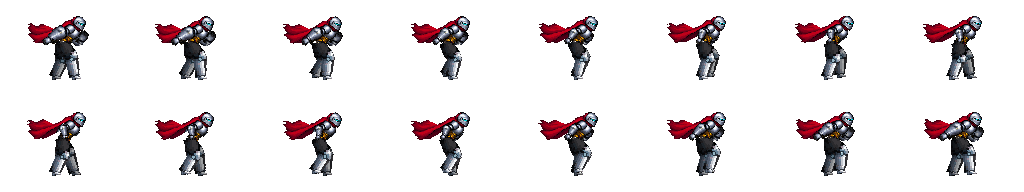
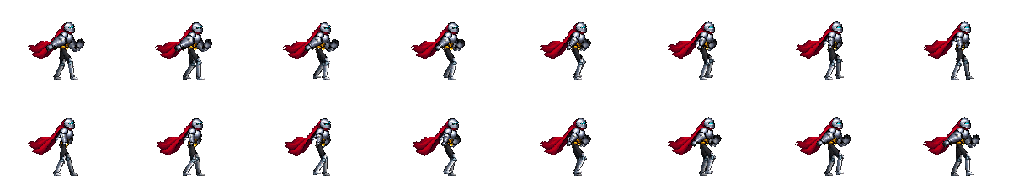
fix: unify knight ceremony and recovery art and straighten running poses

diff --git a/art/characters/grounded-run-v001/sources/process.py b/art/characters/grounded-run-v001/sources/process.py
@@ -27,12 +27,19 @@ boot=armor_part([(70,74),(75,74),(77,76),(80,77),(80,79),(70,79)])
 upper=part([(253,130),(274,135),(279,149),(263,167),(253,182),(236,176),(233,167),(242,143)])
 fore=part([(236,169),(255,178),(244,200),(241,208),(226,212),(217,202),(220,188)])
 # Render transformed original armor cutouts into one offline atlas. No runtime rig or nodes.
-def place(im,p,a0,b0,a1,b1,dark=1):
+def place(im,p,a0,b0,a1,b1,dark=1,width=None):
  ax,ay=a0;bx,by=b0;cx,cy=[v*4 for v in a1];dx,dy=[v*4 for v in b1]
  vx,vy=bx-ax,by-ay;wx,wy=dx-cx,dy-cy
  den=vx*vx+vy*vy;u=(wx*vx+wy*vy)/den;v=(wy*vx-wx*vy)/den;det=u*u+v*v
  # Inverse affine: output coords -> original image coords.
  coeff=(u/det,v/det,ax-(u*cx+v*cy)/det,-v/det,u/det,ay-(-v*cx+u*cy)/det)
+ if width is not None:
+  # Stretch along the bone only: armour must not get wider as a leg extends.
+  sl=math.hypot(vx,vy);tl=math.hypot(wx,wy)
+  sx,sy=vx/sl,vy/sl;tx,ty=wx/tl,wy/tl
+  aa=sx*tx*sl/tl+sy*ty/width;bb=sx*ty*sl/tl-sy*tx/width
+  cc=sy*tx*sl/tl-sx*ty/width;dd=sy*ty*sl/tl+sx*tx/width
+  coeff=(aa,bb,ax-aa*cx-bb*cy,cc,dd,ay-cc*cx-dd*cy)
  pp=p.transform((512,384),Image.Transform.AFFINE,coeff,Image.Resampling.NEAREST)
  if dark!=1:
   aa=pp.getchannel('A');pp=ImageEnhance.Brightness(pp).enhance(dark);pp.putalpha(aa)
@@ -47,8 +54,8 @@ def leg(im,hip,foot,front):
   k=(L1+L2-.1)/dist;foot=(hip[0]+dx*k,hip[1]+dy*k);dx*=k;dy*=k;dist*=k
  along=(L1*L1-L2*L2+dist*dist)/(2*dist);h=math.sqrt(max(0,L1*L1-along*along));knee=(hip[0]+dx*along/dist+dy*h/dist,hip[1]+dy*along/dist-dx*h/dist)
  shade=1 if front else .65
- place(im,thigh,(72*4,57*4),(73*4,65*4),hip,knee,shade)
- place(im,shin,(73*4,66*4),(72.5*4,75*4),knee,foot,shade)
+ place(im,thigh,(72*4,57*4),(73*4,65*4),hip,knee,shade,width=1.0)
+ place(im,shin,(73*4,66*4),(72.5*4,75*4),knee,foot,shade,width=1.0)
  # Heel follows the shin through the airborne recovery; sole remains flat on contact.
  lift=max(0,76-foot[1]);toe=(foot[0]+6,foot[1]+min(3,lift*.16))
  place(im,boot,(72.5*4,76*4),(79*4,77*4),foot,toe,shade)
@@ -58,6 +65,12 @@ def leg(im,hip,foot,front):
 def arm(im,shoulder,elbow,hand,front=True):
  place(im,upper,(263,142),(246,171),shoulder,elbow,1 if front else .65)
  place(im,fore,(246,178),(232,199),elbow,hand,1 if front else .65)
+def stature(tile,anchor):
+ # Keep the established combat sprite's roughly 56px stature, anchored at the soles.
+ scale=.84;result=Image.new('RGBA',tile.size)
+ small=tile.resize((round(tile.width*scale),round(tile.height*scale)),Image.Resampling.NEAREST)
+ result.alpha_composite(small,(round(anchor[0]*(1-scale)),round(anchor[1]*(1-scale))))
+ return result
 for mode in ['run','sprint','walk','idle']:
  for armed in [False,True]:
   count=4 if mode=='idle' else 16
@@ -65,10 +78,10 @@ for mode in ['run','sprint','walk','idle']:
   frames=[];atlas=Image.new('RGBA',(256,192) if mode=='idle' else (1024,192))
   for i in range(count):
    t=i/count;im=Image.new('RGBA',(512,384))
-   bob=1.0*math.sin(t*math.tau*2)
-   hip=(64,(48.5 if mode=='sprint' else 46.5)+bob);lean=3 if mode=='sprint' else 0
-   keys=[(16,77),(3,77),(-15,77),(-20,72),(-16,64),(0,66),(13,69),(19,74)]
-   if mode=='sprint':keys=[(21,76),(4,77),(-19,77),(-25,67),(-16,51),(0,54),(16,61),(24,69)]
+   bob=.6*math.sin(t*math.tau*2)
+   hip=(64,(45.0 if mode=='sprint' else 44.0)+bob);lean=2 if mode=='sprint' else 0
+   keys=[(13,77),(2,77),(-12,77),(-17,74),(-13,70),(-2,70),(9,73),(14,76)]
+   if mode=='sprint':keys=[(17,77),(3,77),(-15,77),(-20,73),(-16,66),(-3,66),(11,71),(18,76)]
    if mode=='walk':keys=[(10,77),(5,77),(0,77),(-6,77),(-10,77),(-6,75),(0,74),(7,75)];hip=(64,44+math.sin(t*math.tau*2)*.4)
    if mode=='idle':hip=(64,44.0+math.sin(t*math.tau)*.35)
    def foot(p):
@@ -79,8 +92,8 @@ for mode in ['run','sprint','walk','idle']:
     wave=round(math.sin(t*math.tau-x*.025)*(324-x)/85)
     cap.alpha_composite(cape.crop((x,0,x+4,384)),(x,wave))
    body_hip=(274,198);body_top=(296,111)
-   target_top=(68+lean,hip[1]-16.5)
-   if mode=='idle':target_top=(63,hip[1]-16.5)
+   target_top=(61+lean,hip[1]-17.5)
+   if mode=='idle':target_top=(61,hip[1]-17.5)
    place(im,cap,body_hip,body_top,hip,target_top)
    leg(im,(hip[0]-2,hip[1]),(57,77) if mode=='idle' else foot(t+.5),False)
    swing=0 if mode=='idle' else math.cos(t*math.tau)
@@ -96,10 +109,66 @@ for mode in ['run','sprint','walk','idle']:
     d=ImageDraw.Draw(im);x,y=[v*4 for v in hand]
     d.line((x,y,x-132,y+42),fill='#142733',width=15);d.line((x,y,x-126,y+38),fill='#b5ced1',width=8);d.line((x,y-3,x-125,y+35),fill='#e5f4eb',width=3);d.line((x-8,y-12,x+4,y+12),fill='#c49c48',width=6)
    arm(im,shoulder,elbow,hand)
-   cell=im.resize((128,96),Image.Resampling.NEAREST)
+   cell=stature(im.resize((128,96),Image.Resampling.NEAREST),(64,80))
    atlas.alpha_composite(cell,((i%columns)*128,(i//columns)*96));frames.append(cell)
   name=mode+('-armed' if armed else '-unarmed');atlas.save(OUT/(name+'.png'))
   if os.environ.get("ART_PREVIEWS")=="1":
    preview=Image.new('RGBA',atlas.size,'#17262c');preview.alpha_composite(atlas);preview.save(OUT/'sources'/(name+'-contact.png'))
    fs=[f.resize((384,288),Image.Resampling.NEAREST) for f in frames]
    fs[0].save(OUT/'sources'/(name+'.gif'),save_all=True,append_images=fs[1:],duration=32 if mode=='sprint' else 40 if mode=='run' else 70,loop=0,disposal=2)
+
+def character_pose(hip,top,feet,hands,elbows,phase=0):
+ """Ceremony and recovery use exactly the locomotion armour, head and scale."""
+ im=Image.new('RGBA',(512,384))
+ place(im,cape,(274,198),(296,111),hip,top)
+ leg(im,(hip[0]-2,hip[1]),feet[0],False)
+ arm(im,(top[0]+4,top[1]+5),elbows[0],hands[0],False)
+ place(im,body,(274,198),(296,111),hip,top)
+ leg(im,hip,feet[1],True)
+ arm(im,(top[0]-2,top[1]+5),elbows[1],hands[1])
+ tile=Image.new('RGBA',(160,128))
+ tile.alpha_composite(im.resize((128,96),Image.Resampling.NEAREST),(16,16))
+ return tile
+
+def blade(tile,hand,tip):
+ """One silver blade, anchored to the gauntlet; transparent margin allows the lift."""
+ d=ImageDraw.Draw(tile);h=(hand[0]+16,hand[1]+16);p=(tip[0]+16,tip[1]+16)
+ dx,dy=p[0]-h[0],p[1]-h[1];length=math.hypot(dx,dy)
+ d.line([h,p],fill='#162936',width=4)
+ d.line([h,p],fill='#b5ced1',width=2)
+ d.line([(h[0]-1,h[1]),(p[0]-1,p[1])],fill='#e5f4eb',width=1)
+ nx,ny=-dy/length*3,dx/length*3
+ d.line([(h[0]+nx,h[1]+ny),(h[0]-nx,h[1]-ny)],fill='#c49c48',width=2)
+
+# Eight existing ceremony timing slots: reach, brace, pull, rise, lift, hold, lower, settle.
+poses=[
+ ((64,44),(61,26.5),(77,50),(77,78)),
+ ((64,49),(65,32),(78,53),(78,79)),
+ ((64,48),(65,31),(77,49),(77,77)),
+ ((64,44),(61,26.5),(74,40),(75,68)),
+ ((64,44),(61,26.5),(71,17),(71,-14)),
+ ((64,44),(61,26.5),(71,17),(71,-14)),
+ ((64,44),(61,26.5),(72,38),(94,16)),
+ ((64,44),(61,26.5),(68,48),(35,59)),
+]
+ceremony=Image.new('RGBA',(640,256))
+for i,(hip,top,hand,tip) in enumerate(poses):
+ offhand=(hand[0]-3,hand[1]+3) if i<4 else (70,48)
+ elbows=((70,hip[1]-3),(70,30 if i in [4,5] else hip[1]-4))
+ tile=character_pose(hip,top,[(57,77),(70,77)],[offhand,hand],elbows)
+ blade(tile,hand,tip)
+ ceremony.alpha_composite(stature(tile,(80,96)),((i%4)*160,(i//4)*128))
+ceremony.save(ROOT/'art/characters/camp-ceremony-v001/draw_sword.png')
+
+# Cavalry now reuses the mounted atlas directly at runtime; no second horse design.
+rest_path=ROOT/'art/characters/exhaustion-v001/rest.png'
+rest=Image.new('RGBA',(640,256))
+for row in range(2):
+ for i in range(4):
+  breath=math.sin(i/6*math.tau)*.7
+  hip=(64,45.5);top=(66+breath,29+breath)
+  hand=(74,57) if row==0 else (76,45)
+  tile=character_pose(hip,top,[(56,77),(72,77)],[(72,56),hand],[(73,46),(73,44)])
+  if row==1:blade(tile,hand,(77,78))
+  rest.paste(stature(tile,(80,96)),(i*160,row*128))
+rest.save(rest_path)

diff --git a/art/characters/grounded-run-v001/README.md b/art/characters/grounded-run-v001/README.md
@@ -9,3 +9,25 @@ Rebuild with Pillow + NumPy: `python3 sources/process.py`. Set `ART_PREVIEWS=1` 
 September 22 refinement: raise the hip and extend the support leg; reduce normal-run heel recovery and tired-walk foot lift. Armed/unarmed variants share these paths. The source drawing and deterministic rebuild script remain intact.
 
 Armour consistency repair: thigh, shin and boot cutouts now come from the established silver `../prosthetic-v001/knight-idle.png`. The same leg pieces and joints drive all six movement sheets plus two four-frame idle sheets (256×192, 2 columns). Idle has a straighter stance, subtle breathing and a moving cape. Armed idle uses the existing scene texture override, preserving editable frame timings; unarmed idle uses the matching sheet. Gold mechanical hands remain part of the source torso artwork.
+
+## Whole-character consistency pass — 2026-09-22
+
+The same generator now also builds `camp-ceremony-v001/draw_sword.png` and the two on-foot rows of `exhaustion-v001/rest.png`. Their original generated source images remain archived. Head, torso, cape, gauntlets, silver thighs/shins/boots and sword palette are shared with locomotion. Existing frame counts, ceremony timings and foot anchors remain intact. Exported poses keep the established roughly 56-pixel standing height; this avoids growing taller when leaving combat.
+
+Leg transforms now preserve plate width independently of bone length. Normal running recovery lifts a foot about 7 pixels before final stature scaling, sprint about 11 (previously 13 and 26); the torso leans less and the hip is higher. Running still has a wider stride and faster cadence than recovery walking. Frame rates and movement rules are unchanged.
+
+Active atlas audit:
+
+| Runtime state | Source / decision |
+| --- | --- |
+| Armed/unarmed idle, run, sprint, recovery walk | Eight atlases here; common body and silver legs |
+| Campfire sword ceremony | Rebuilt from the same parts; no old gold-legged body |
+| On-foot breathing | Rebuilt from the same parts; 640×256, two rows |
+| Planted combo | `combo-v005/planted.png`; retain authored silver armour, red cape and attack silhouettes |
+| Mounted idle, movement and attack | `mounted-v001/mounted.png`; retain intentional top-tier cavalry armour and its horse |
+| Mounted recovery | Uses mounted frame 0 directly; no separately generated rider/horse, no horse recolouring |
+| Damage/death | Reactions on the current body's presentation; no additional character atlas |
+| Prologue | Instantiates `frontier.tscn`, receiving these same replacements |
+| Legacy jump/dash/moving attack/training | Retained for legacy scenes/tests; unavailable in the current flat campaign; originals are not bulk-rewritten |
+
+Equipment material follows idle, movement, on-foot recovery, unarmed and ceremony states. Mounted recovery deliberately follows the mounted material rather than tinting the entire horse with the infantry armour shader.

diff --git a/docs/lessons/73-consistent-knight-poses.md b/docs/lessons/73-consistent-knight-poses.md
@@ -1,0 +1,11 @@
+# 第 73 課：同一位騎士，切換不同姿勢
+
+Godot 的 `AtlasTexture` 只是從大圖中裁出一格；它不會知道兩張圖的頭盔、身高或腿甲是否相同。這次待機、移動、拔劍及徒步喘息，改用同一組美術部件先產生成圖集，遊戲仍只播放圖片，不增加即時骨架或逐幀圖片處理。
+
+在 `presentation/knight_ceremony_view.gd`，`ENDS` 決定八格拔劍各播放到哪個時間；在 `presentation/knight_visual.gd`，`walking_frame_rate`、`running_frame_rate` 決定跑步和衝刺的播放節奏。調整播放率會改變快慢，但無法修正圖本身抬膝太高。
+
+外觀有兩部分：圖集與材質。騎士升級的材質也必須跟到徒手／拔劍狀態；騎乘則使用既有最高階配色，喘息沿用相同馬匹圖。這次先以測試重現切換漏掉配色、騎馬喘息換圖，再修正。
+
+可練習：Godot 開啟 `scenes/frontier.tscn`，選取 Knight 下的 KnightVisual，找出 Walking Frame Rate。先記下原值 32，短暫改成 28 試看節奏，再改回 32。這只影響動畫播放，不改騎士實際移動速度。
+
+尚未收到練習完成回覆，因此不更新為已掌握。

diff --git a/art/characters/exhaustion-v001/README.md b/art/characters/exhaustion-v001/README.md
@@ -1,5 +1,7 @@
 # 疲勞動作 v001
 
+2026-09-22 更新：下文保留原始產製紀錄。現行 rest.png 為 640×256、四欄兩列，以 `../grounded-run-v001/sources/process.py` 重建徒手／持劍喘息，與移動共用騎士部件。騎乘喘息直接使用 mounted-v001 的待機格與既有呼氣效果，避免連馬匹都切換成不同設計；不再載入舊第三列。
+
 2026-09-21 使用 Codex 內建 imagegen 參考本專案 unarmed-v001/run.png 及 mounted-v001/mounted.png 生成。需求：四欄三列，均朝右、固定腳底，紅披風銀甲機械義肢；第一列徒手扶膝，第二列垂頭以劍支撐，第三列騎士伏在機械馬鞍上。四格吸氣／抬肩／呼氣／沉肩，不做跑步或攻擊，透明背景，維持原有像素風。
 
 sources/sheet.png 保留原始輸出，.gdignore 排除原圖匯入。依使用者先前授權，以本機 Pillow 裁成 4×3 格；alpha >=150 保留；各列共用縮放比例，徒步最高55像素、騎乘88像素；以每格底部8像素的腳底中點定位。輸出640×384，每格160×128，腳底y=96。最近鄰縮放，不平滑重採樣。

diff --git a/art/characters/camp-ceremony-v001/README.md b/art/characters/camp-ceremony-v001/README.md
@@ -1,5 +1,7 @@
 # 營火拔劍 v001
 
+2026-09-22 更新：下文為保留的原始生成紀錄。現在使用 `../grounded-run-v001/sources/process.py`，以移動時同一套頭盔、軀幹、銀腿甲與披風重建八格，避免拔劍換成金腿的另一名騎士。原有切格、腳底錨點與演出時序不變；原始 sources/sheet.png 保留。
+
 使用內建 imagegen，以 unarmed-v002/motion.png 為角色參考生成原創八格拔劍動畫。原圖保存在 sources/sheet.png，保留 alpha、縮為像素尺寸並統一腳底與水平站姿錨點；最終 640×256，4×2 格，每格 160×128，腳底 y=96。
 
 提示重點：同一名銀盔、金色機械腿、紅披風右向騎士；握劍、壓低蓄力、拔出、過頭高舉、下降、持劍待機；透明背景、無地面、無文字、無粒子、硬像素輪廓。所有光芒與火花由遊戲即時繪製。
